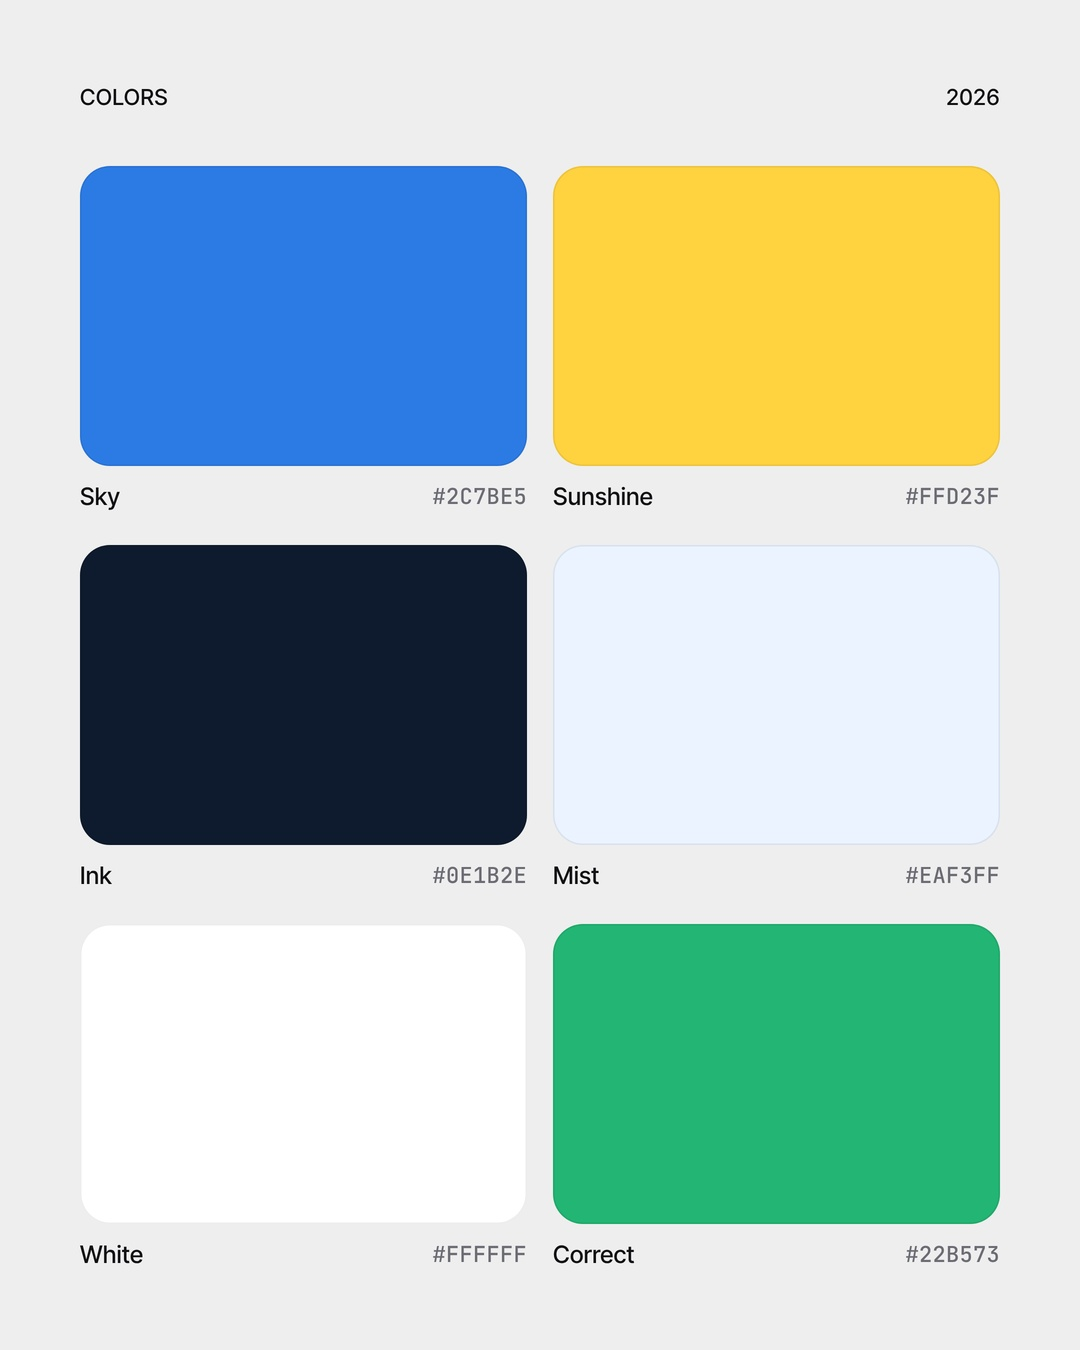
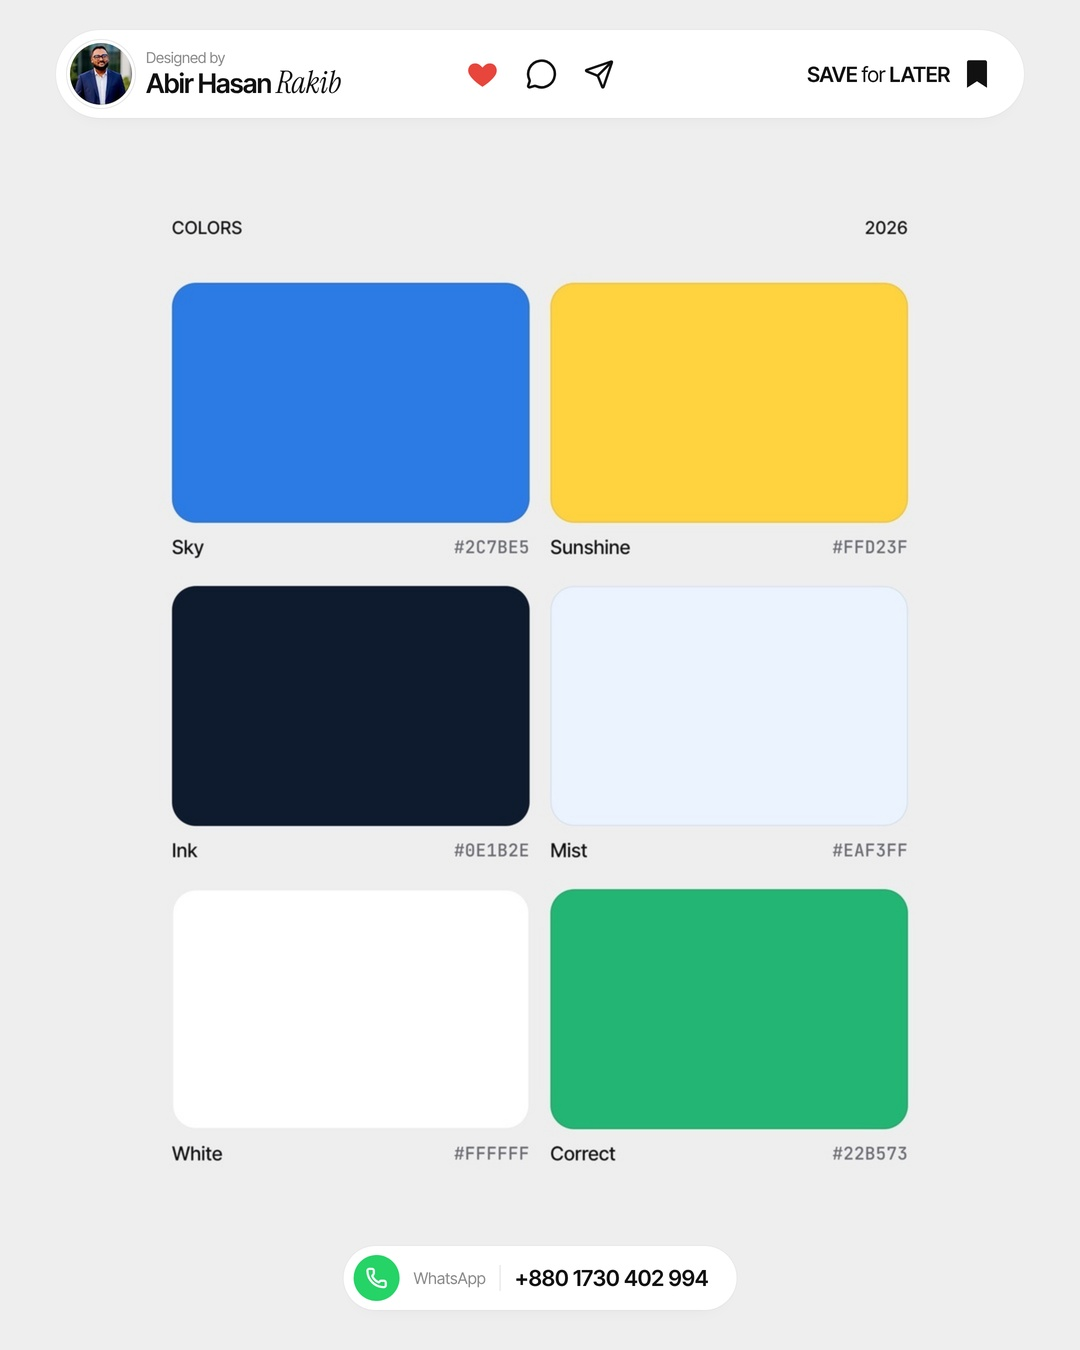
Lighter mockup shadows; brand chrome approved and on by default for app, dashboard and website; re-render Lumen and Ledgerly
Claude-Session: https://claude.ai/code/session_01Rx7czwabXTeMBMzdoEBv6n

diff --git a/tools/carousel.py b/tools/carousel.py
@@ -49,10 +49,10 @@ def window_html(shot_uri, url, k, x, y):
 </div></div></div></div></body></html>""", iw + 14, ih + 14
 
 
-# ---- Owner's brand chrome (preview 2026-11-14, pending approval): "Designed by" bar on top, WhatsApp pill at the bottom.
-# Enabled with BRAND=1 in the environment. The CTA slide is left unchanged.
+# ---- Owner's brand chrome (approved 2026-11-14): "Designed by" bar on top, WhatsApp pill at the bottom,
+# on every design slide of every type. The CTA slide is left unchanged. BRAND=0 turns it off.
 import os
-BRAND = os.environ.get('BRAND') == '1'
+BRAND = os.environ.get('BRAND', '1') == '1'
 BRAND_TOP, BRAND_BOT = 150, 120          # canvas space the chrome takes (top bar, bottom pill)
 
 
@@ -63,7 +63,7 @@ def brand_html(bg_uri):
     return f"""<!doctype html><html><head><meta charset=utf-8><link rel=stylesheet href="{(R.ROOT/'assets/fonts.css').as_uri()}"><style>{R.STAGE_CSS}
 .bg{{position:absolute;inset:0;background:url({bg_uri}) 0 0/1080px 1350px no-repeat}}
 .tb{{position:absolute;left:56px;right:56px;top:30px;height:88px;border-radius:44px;background:#fff;display:flex;align-items:center;padding:0 34px 0 14px;
- box-shadow:0 1px 0 rgba(0,0,0,.03),0 14px 30px -18px rgba(20,20,30,.25)}}
+ box-shadow:0 0 0 1px rgba(0,0,0,.025),0 10px 24px -20px rgba(20,20,30,.12)}}
 .who{{display:flex;align-items:center;gap:14px}}
 .av{{width:62px;height:62px;border-radius:50%;background:url({av}) center/cover;box-shadow:0 0 0 3px #fff,0 0 0 4px #E6E6E6}}
 .who small{{display:block;font-size:15px;color:#8A8A8A;font-family:'Inter Tight';letter-spacing:-.1px}}
@@ -73,7 +73,7 @@ def brand_html(bg_uri):
 .sv{{margin-left:auto;display:flex;align-items:center;gap:14px;font-family:'Inter Tight';font-size:21px;font-weight:600;color:#111;letter-spacing:-.3px}}
 .sv span b{{font-weight:600}} .sv span em{{font-style:normal;font-weight:400}}
 .wa{{position:absolute;left:50%;transform:translateX(-50%);bottom:40px;height:64px;border-radius:32px;background:#fff;display:flex;align-items:center;gap:14px;padding:0 28px 0 10px;
- font-family:'Inter Tight';box-shadow:0 14px 30px -18px rgba(20,20,30,.25);white-space:nowrap}}
+ font-family:'Inter Tight';box-shadow:0 0 0 1px rgba(0,0,0,.025),0 10px 24px -20px rgba(20,20,30,.12);white-space:nowrap}}
 .wa i{{width:46px;height:46px;border-radius:50%;background:#25D366;display:grid;place-items:center}}
 .wa small{{font-size:16px;color:#8A8A8A}} .wa b{{font-size:22px;font-weight:600;color:#111;letter-spacing:-.2px}}
 .wa .sep{{width:1px;height:26px;background:#E3E3E3}}
@@ -83,6 +83,20 @@ def brand_html(bg_uri):
  <div class="sv"><span><b>SAVE</b> <em>for</em> <b>LATER</b></span>{bm}</div></div>
 <div class="wa"><i>{R.expand_icons('{{icon:phone:22:#fff:2.4}}')}</i><small>WhatsApp</small><span class="sep"></span><b>+880 1730 402 994</b></div>
 </div></body></html>"""
+
+
+def make_room(jpg, mode):
+    """Free the top/bottom bands for the chrome on a slide laid out without it (app slides).
+    shift: move everything down (hand+phone photo that bleeds off the bottom); scale: shrink into the free box."""
+    im = Image.open(jpg).convert('RGB')
+    c = Image.new('RGB', (W, H), BG)
+    if mode == 'shift':
+        c.paste(im, (0, BRAND_TOP - 20))
+    else:
+        s_ = (H - BRAND_TOP - BRAND_BOT) / H
+        sm = im.resize((round(W * s_), round(H * s_)), Image.LANCZOS)
+        c.paste(sm, ((W - sm.width) // 2, BRAND_TOP))
+    c.save(jpg, quality=95)
 
 
 async def brand(b, work, jpg):
@@ -145,15 +159,19 @@ async def website(d, work, prefix, b):
     # slide 1: left column = page from the top (bleeds off the bottom), right column = page bottom-aligned
     # (ends at the footer), narrower, so together they show the whole home page.
     lw, rw, gap, top = 600, 360, 26, 70
+    lh = H - top + 40                           # left column bleeds off the bottom
+    rh = H - top - 70                           # ends inside the frame so the footer shows
+    if BRAND:
+        top = BRAND_TOP + 12
+        lh = rh = H - top - BRAND_BOT - 12
     lx = (W - lw - rw - gap) // 2
     lsc, rsc = lw / pw, rw / pw
-    left = page.crop((0, 0, pw, min(ph, round((H - top + 40) / lsc))))
-    rh = H - top - 70                           # ends inside the frame so the footer shows
+    left = page.crop((0, 0, pw, min(ph, round(lh / lsc))))
     right = page.crop((0, max(0, ph - round(rh / rsc)), pw, ph))
     html = f"""<!doctype html><html><head><meta charset=utf-8><style>{R.STAGE_CSS}
 .col{{position:absolute;top:{top}px;background:#fff;border-radius:6px;overflow:hidden;
-box-shadow:0 0 0 1px rgba(0,0,0,.05),0 30px 60px -30px rgba(20,20,30,.3)}}</style></head><body><div class="stage">
-<div class="col" style="left:{lx}px;width:{lw}px;height:{H-top+40}px;background:url({uri(left)}) 0 0/100% auto no-repeat"></div>
+box-shadow:0 0 0 1px rgba(0,0,0,.04),0 20px 40px -28px rgba(20,20,30,.10)}}</style></head><body><div class="stage">
+<div class="col" style="left:{lx}px;width:{lw}px;height:{lh}px;background:url({uri(left)}) 0 0/100% auto no-repeat"></div>
 <div class="col" style="left:{lx+lw+gap}px;width:{rw}px;height:{rh}px;background:url({uri(right)}) 0 100%/100% auto no-repeat"></div>
 </div></body></html>"""
     p = work / 'web1.html'
@@ -165,10 +183,13 @@ box-shadow:0 0 0 1px rgba(0,0,0,.05),0 30px 60px -30px rgba(20,20,30,.3)}}</styl
     cw, ctop = 900, 110
     sc = cw / pw
     card_h = H - ctop - 90
+    if BRAND:
+        ctop = BRAND_TOP + 12
+        card_h = H - ctop - BRAND_BOT - 12
     topimg = page.crop((0, 0, pw, round(card_h / sc)))
     html = f"""<!doctype html><html><head><meta charset=utf-8><style>{R.STAGE_CSS}
 .col{{position:absolute;background:#fff;border-radius:6px;overflow:hidden;
-box-shadow:0 0 0 1px rgba(0,0,0,.05),0 40px 80px -30px rgba(20,20,30,.3)}}</style></head><body><div class="stage">
+box-shadow:0 0 0 1px rgba(0,0,0,.04),0 20px 40px -28px rgba(20,20,30,.10)}}</style></head><body><div class="stage">
 <div class="col" style="left:{(W-cw)//2}px;top:{ctop}px;width:{cw}px;height:{card_h}px;background:url({uri(topimg)}) 0 0/100% auto no-repeat"></div>
 </div></body></html>"""
     p = work / 'web2.html'
@@ -183,20 +204,26 @@ box-shadow:0 0 0 1px rgba(0,0,0,.05),0 40px 80px -30px rgba(20,20,30,.3)}}</styl
     def fit(k):
         s_ = (k * W - 300) / ph
         return s_, round(pw * s_)
-    k = max(2, round((ph * (H - 200) / pw + 300) / W))
+    maxb = H - BRAND_TOP - BRAND_BOT - 24 if BRAND else H - 90
+    k = max(2, round((ph * (maxb - 110) / pw + 300) / W))
     s_, band = fit(k)
-    while band > H - 90 and k < 7:
+    while band > maxb and k < 7:
         k += 1; s_, band = fit(k)
-    while band < H - 380 and k > 2 and fit(k - 1)[1] <= H - 90:
+    while band < maxb - 290 and k > 2 and fit(k - 1)[1] <= maxb:
         k -= 1; s_, band = fit(k)
     rot = page.rotate(90, expand=True).resize((round(ph * s_), band), Image.LANCZOS)
     strip = Image.new('RGB', (k * W, band), BG)
     strip.paste(rot, (150, 0))
     top = (H - band) // 2
+    if BRAND:
+        top = BRAND_TOP + 12 + (maxb - band) // 2
     for i in range(k):
         c = Image.new('RGB', (W, H), BG)
         c.paste(strip.crop((i * W, 0, (i + 1) * W, band)), (0, top))
         save(c, f'{prefix}-{i + 3}.jpg')
+    if BRAND:
+        for i in range(1, k + 3):
+            await brand(b, work, f'{prefix}-{i}.jpg')
     save(await cta_slide(b, work), f'{prefix}-{k + 3}.jpg')
 
 
@@ -311,6 +338,10 @@ async def app(d, work, prefix, b):
         ".l{display:flex;justify-content:space-between;font:500 24px 'Inter Tight';margin-top:16px;letter-spacing:.3px}"
         ".l span:first-child{color:#111114}.l span:last-child{color:#6B6B74;font-family:'JetBrains Mono';font-size:22px}")
     save(s4, f'{prefix}-4.jpg')
+    if BRAND:
+        for i in range(1, 5):
+            make_room(f'{prefix}-{i}.jpg', 'shift' if i == 1 else 'scale')
+            await brand(b, work, f'{prefix}-{i}.jpg')
     save(await cta_slide(b, work), f'{prefix}-5.jpg')
 
 

diff --git a/tools/render.py b/tools/render.py
@@ -81,7 +81,7 @@ STAGE_CSS = """
 html,body{width:1080px;height:1350px;overflow:hidden;background:#EEEEEE;font-family:'Inter Tight',sans-serif;-webkit-font-smoothing:antialiased}
 .stage{position:relative;width:1080px;height:1350px;background:#EEEEEE}
 .frame{position:absolute;padding:7px;border-radius:26px;background:rgba(255,255,255,.55);
-  box-shadow:0 0 0 1px rgba(0,0,0,.04),0 40px 80px -30px rgba(20,20,30,.28),0 12px 24px -12px rgba(20,20,30,.12)}
+  box-shadow:0 0 0 1px rgba(0,0,0,.035),0 24px 48px -30px rgba(20,20,30,.10),0 4px 10px -6px rgba(20,20,30,.04)}
 .inner{border-radius:19px;overflow:hidden;background:#fff;box-shadow:0 0 0 1px rgba(0,0,0,.06)}
 .bar{height:38px;display:flex;align-items:center;padding:0 14px;gap:12px;background:#F7F7F8;border-bottom:1px solid #EBEBEE}
 .dots{display:flex;gap:7px}.dots i{width:11px;height:11px;border-radius:50%;display:block}

diff --git a/PLAYBOOK.md b/PLAYBOOK.md
@@ -9,7 +9,7 @@ Match these approved posts exactly in presentation; only the design inside the s
 - Dashboard → `posts/2026-11/2026-11-09-pm-hospital-ops-dashboard-1.jpg` … `-4.jpg` (**carousel**: full window, left half, right half, CTA; no popup/zoom card)
 - Website → `posts/2026-11/2026-11-10-am-meeting-notes-website-1.jpg` … `-8.jpg` (**carousel**: whole home page in two columns, top of page large, the whole page rotated 90° in equal bands through the footer, CTA)
 
-Always: 1080×1350, `#EEEEEE` background, light UI, no CTA bar or "Designed by" strip on the design slides; the only CTA is the fixed last slide.
+Always: 1080×1350, `#EEEEEE` background, light UI, the brand chrome ("Designed by" bar + WhatsApp pill, see below) on the design slides; the fixed CTA slide stays last.
 Do not edit `tools/render.py` or the mockup assets unless the owner asks.
 
 ## The schedule
@@ -60,7 +60,7 @@ Folder: `designs/<slot-id>-<short-slug>/screen.html` (+ any images it uses). Out
 python3 tools/carousel.py designs/<dir> <app|dashboard|website> posts/<YYYY-MM>/<slot-id>-<short-slug>
 ```
 
-Canvas for every post: 1080×1350, flat `#EEEEEE` studio background, **no CTA bar, no "Designed by", no logo strip**.
+Canvas for every post: 1080×1350, flat `#EEEEEE` studio background; carousel.py adds the approved brand chrome.
 The renderer handles the mockup; you only design the screen.
 
 | type | screen.html size | mockup the renderer adds |
@@ -151,12 +151,14 @@ new hero component, new chart mix, new palette) so no two posts look alike.
 - Fill the full 1440×960 with no dead space and nothing clipped: check the bottom row and every card edge on slides 2 and 3.
 
 
-## Brand chrome (preview 2026-11-14, WAITING for owner approval — do not use yet)
+## Brand chrome + mockup shadow (approved by the owner 2026-11-14 — on every post from 2026-11-15)
 
-Owner asked for a "Designed by" bar like `reference/dashboard-style` Orbix example: top pill with his photo
-(`assets/brand/abir.jpg`), "Designed by / Abir Hasan Rakib", heart/comment/share icons, "SAVE for LATER" + bookmark,
-and a WhatsApp pill (+880 1730 402 994) at the bottom. Built into tools/carousel.py behind `BRAND=1` (dashboards so far).
-Only switch it on (and extend it to app and website slides) after the owner approves the Ledgerly preview.
+Every design slide (not the CTA slide) carries the owner's chrome, added automatically by tools/carousel.py:
+a top pill with his photo (`assets/brand/abir.jpg`), "Designed by / Abir Hasan *Rakib*", heart/comment/share icons and
+"SAVE for LATER" + bookmark, and a WhatsApp pill (+880 1730 402 994) at the bottom. Layouts leave room for it
+(dashboard halves pan from each edge, website columns/bands sit between the bars, app slides shift/scale down).
+Mockup shadows are deliberately faint (owner: the old shadow was too heavy): 1px hairline + a soft, low-opacity drop.
+Do not darken them again. If the owner sends a sharper profile photo, replace `assets/brand/abir.jpg`.
 
 
 ## Growth rules (owner's standing order: every post should aim to go viral)
